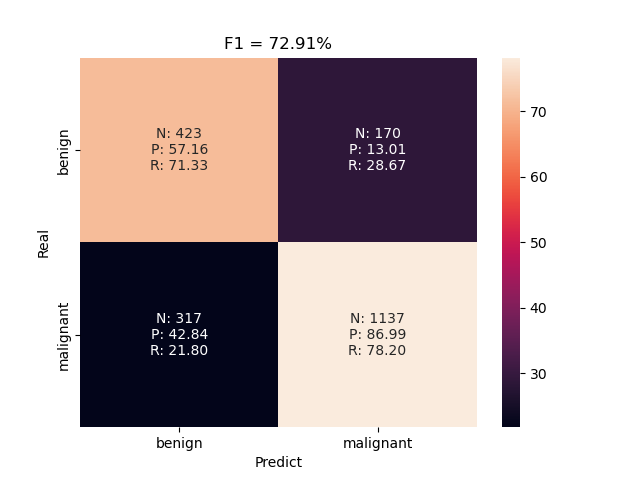
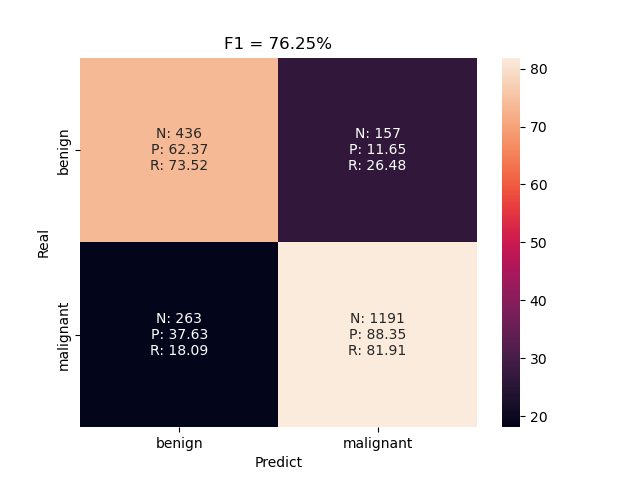
adiciona o plot da curva de acurácia

diff --git a/train.py b/train.py
@@ -115,11 +115,18 @@ val_data = DataLoader(
 )
 
 #%%
-model.acc = None
-model.loss = None
+acc = None
+loss = None
 epoch_bar = tqdm(range(args.epochs),position=0)
 best_f1 = -1
 model.eval()
+acc
+history = {
+    "acc":[],
+    "val_acc":[],
+    "loss":[],
+    "val_loss":[],
+}
 for epoch in epoch_bar:
     batch_bar = tqdm(data,position=1,leave=False)
     # print(torch.cuda.memory_summary(gpu))
@@ -141,15 +148,19 @@ for epoch in epoch_bar:
         loss_.backward()
         opt.step()
 
-        acc_train_ = (label==output.argmax(1)).sum()/len(label)
-        model.acc = acc_train_ if model.acc is None else .98*model.acc+(1-.98)*acc_train_
-        model.loss = loss_.item() if model.loss is None else .98*model.loss+(1-.98)*loss_.item()
+        acc_train_ = (label==output.argmax(1)).sum().item()/len(label)
+        acc = acc_train_ if acc is None else .98*acc+(1-.98)*acc_train_
+        loss = loss_.item() if loss is None else .98*loss+(1-.98)*loss_.item()
         batch_bar.set_postfix({
-            "loss":f"{model.loss:.4f}",
-            "acc":f"{model.acc*100:.2f}"
+            "loss":f"{loss:.4f}",
+            "acc":f"{acc*100:.2f}"
         })
 
     val_acc,matrix,f1 = accuracy(model,val_data)
+    history["acc"].append(acc)
+    history["val_acc"].append(val_acc)
+
+    # Save model logs and weights
     if f1 > best_f1:
         best_f1 = f1
         dict_save = {
@@ -177,8 +188,19 @@ for epoch in epoch_bar:
         )
         plt.xlabel("Predict"); plt.ylabel("Real")
         plt.title(f"F1 = {f1*100:.2f}%")
-        plt.savefig(f'confusion_matrix_{args.model}.png')
+        plt.savefig(f'plots/confusion_matrix_{args.model}.png')
         plt.close()
+
+    # Curva acc
+    plt.figure()
+    plt.plot(np.array(history["acc"])*100,label="acc")
+    plt.plot(np.array(history["val_acc"])*100,label="val_acc")
+    plt.legend()
+    plt.title("Accuracy Curve")
+    plt.xlabel("Epochs")
+    plt.ylabel("%")
+    plt.savefig(f"plots/accuracy_{args.model}.png")
+    plt.close()
 
     epoch_bar.set_postfix({
         "val_acc":f"{val_acc:.2f}"

diff --git a/src/utils.py b/src/utils.py
@@ -90,7 +90,7 @@ def accuracy(model:torch.nn.Module,dataset):
     matrix = confusion_matrix(all_labels,all_outputs)
     acc = balanced_accuracy_score(all_labels,all_outputs)
     f1 = f1_score(all_labels,all_outputs,average="macro")
-    return acc*100,matrix,f1
+    return acc,matrix,f1
 
 
 if __name__ == "__main__":
